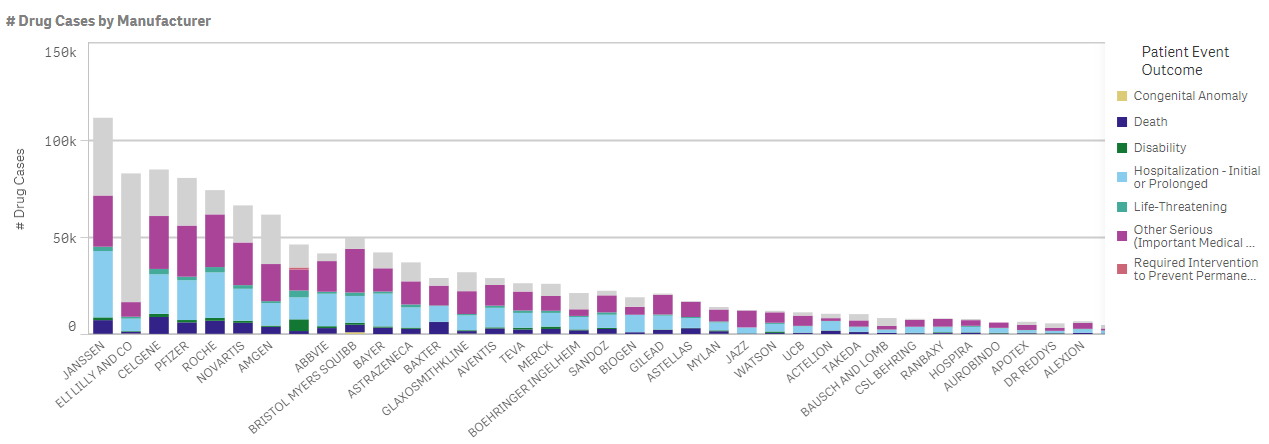
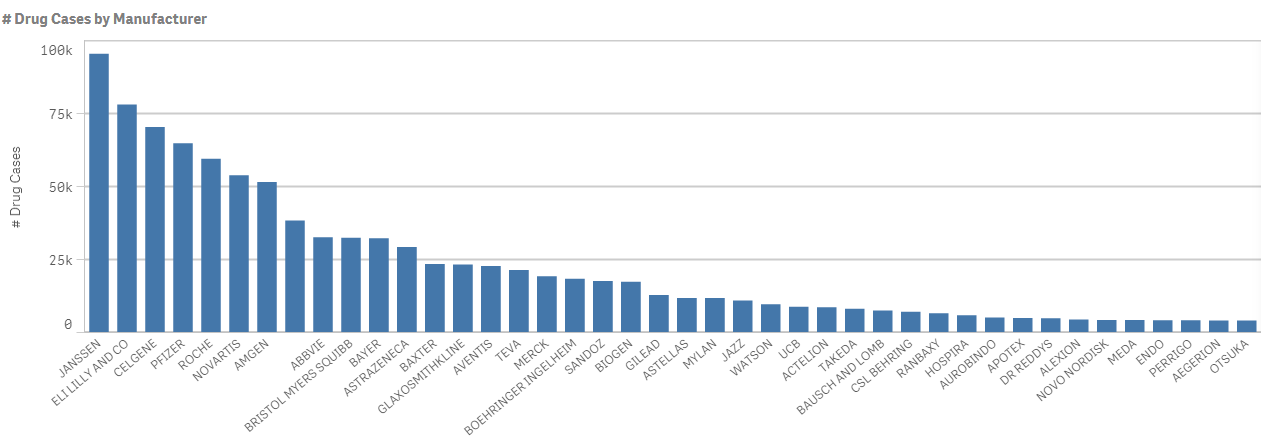
Simplified charts

diff --git a/docs/use-cases/use-case-custom-analytics/ui/README.md b/docs/use-cases/use-case-custom-analytics/ui/README.md
@@ -25,10 +25,10 @@ MEASURES:
 ![Viz three](./3.png)
 
 DIMENSIONS:  
-Drug Role Event: [Drug Role Event]  
+Patient Event Outcome: [Patient Event Outcome]  
   
 MEASURES:  
-\# Drug Cases: Count(Drug_caseID)
+\# Patient Cases: Count(Demographic_Caseid)
 
 ![Viz four](./4.png)
 
@@ -41,8 +41,7 @@ MEASURES:
 ![Viz five](./5.png)
 
 DIMENSIONS:  
-Manufacturer Code Name: [Manufacturer Code Name]  
-Patient Event Outcome: [Patient Event Outcome]    
+Manufacturer Code Name: [Manufacturer Code Name]    
   
 MEASURES:  
 \# Drug Cases: Count(Drug_caseID)
